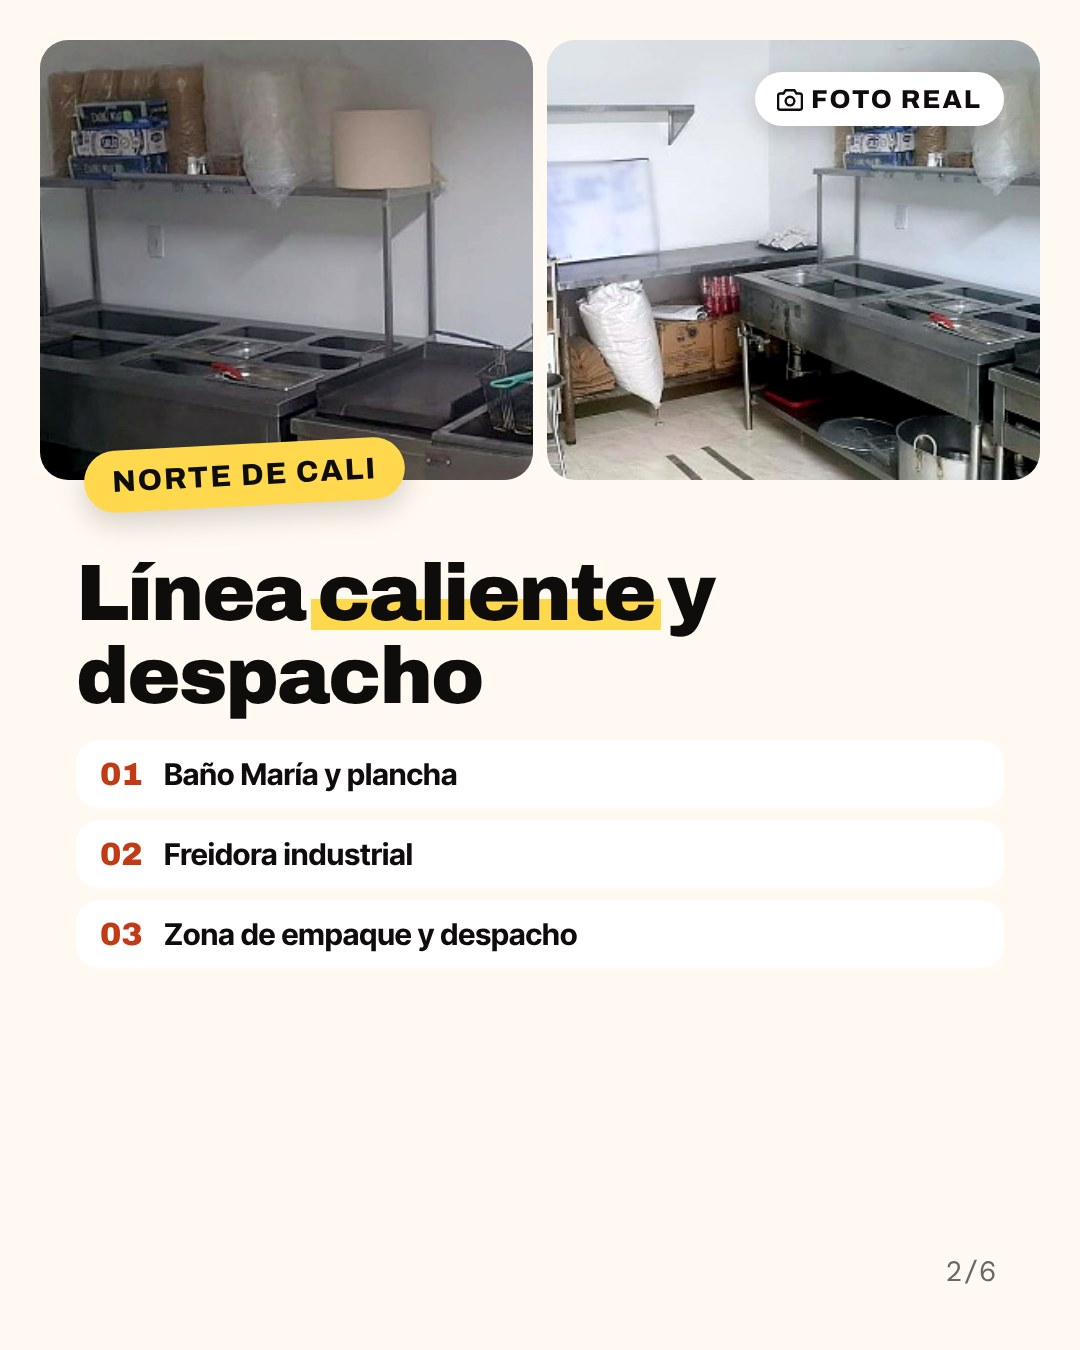
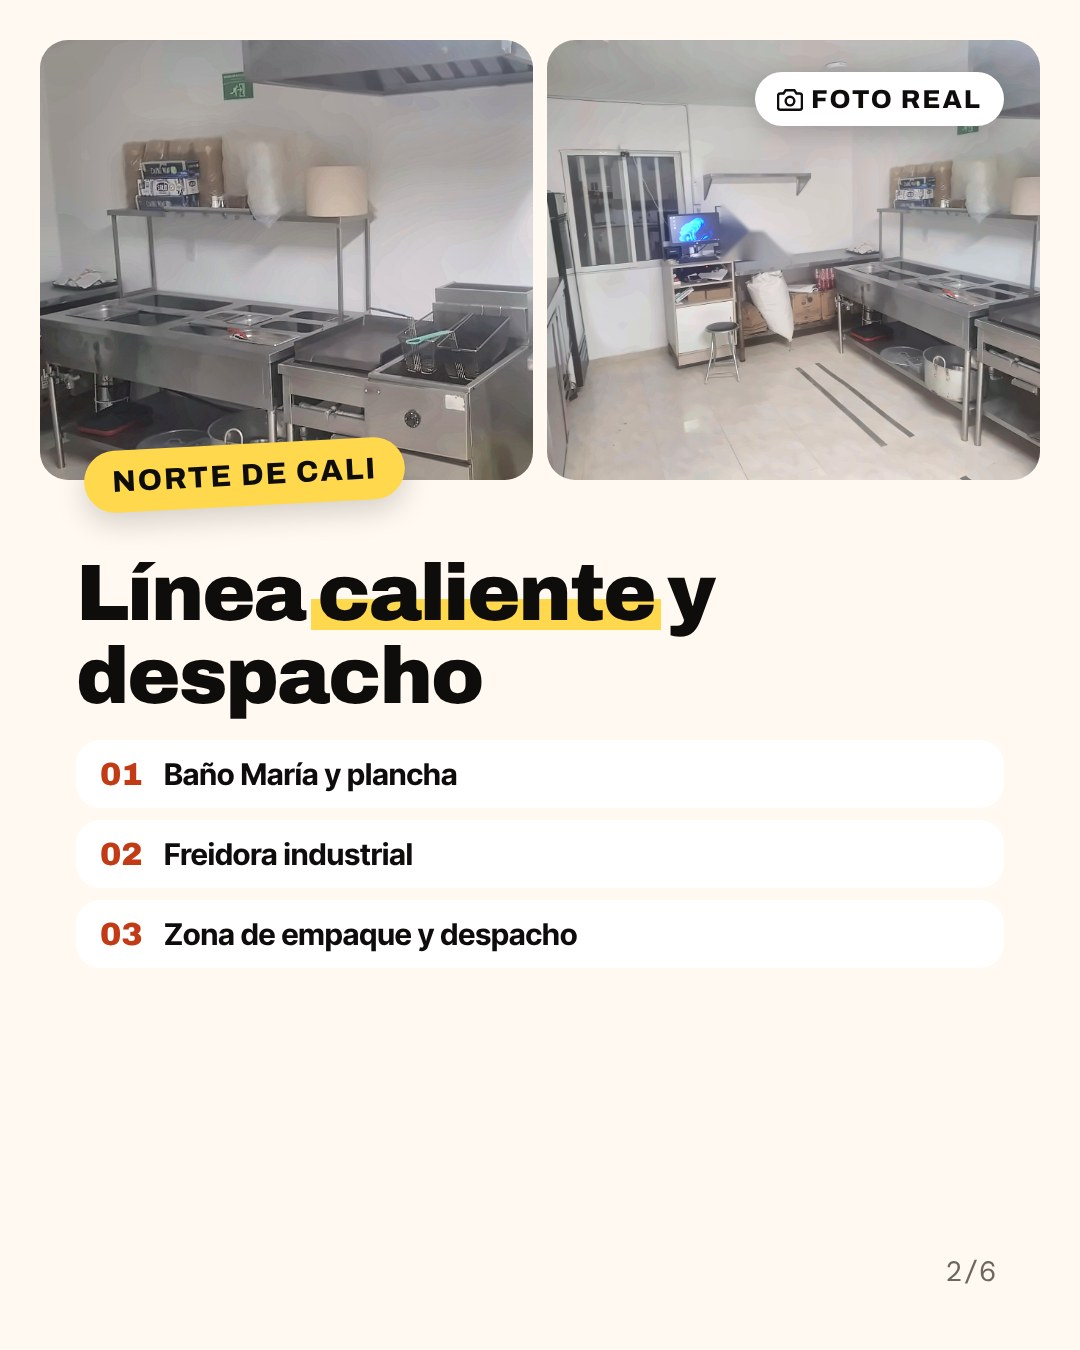
Fotos reales retocadas (luz, color, nitidez, limpieza) y piezas H31-H33, P01, C06 actualizadas
Claude-Session: https://claude.ai/code/session_01XbyNNKVU25zC2yAuVpHdEA

Changed region(s): [[0.0306, 0.0311, 0.9778, 0.3733]]

diff --git a/GUIA.md b/GUIA.md
@@ -35,7 +35,7 @@ Regla de oro: si la pieza habla de postres, se ven postres. Si habla de hamburgu
 
 Busca la imagen en este orden:
 
-1. **Fotos reales** de las cocinas en `marcas/<marca>/assets/reales/` (aprobadas por Carlos el 5 nov). Son la prueba más fuerte: úsalas al menos en 1 de cada 3 piezas y márcalas con `foto_real: true`. Las amplias (`modulo_frente_amplio`, `modulo_frente`, `modulo_panoramica`) sirven para la foto principal con `alto` entre 620 y 900. Las de detalle (`linea_caliente`, `neveras_industriales`, `despacho_empaques`, `cuarto_frio_neveras`, `modulo_vacio_nevera`) son pequeñas: van solo en `galeria`, nunca solas a pantalla completa. Describe solo lo que se ve en la foto; no inventes equipos.
+1. **Fotos reales** de las cocinas en `marcas/<marca>/assets/reales/` (retocadas el 5 nov a partir de las fotos de Carlos). Son la prueba más fuerte: úsalas al menos en 1 de cada 3 piezas y márcalas con `foto_real: true`. Lista y uso en `fotos_reales` de marca.json: módulo vacío (`modulo_cocina_frente`, `modulo_cocina_puerta`, `modulo_cocina_vertical`, `modulo_entrada_vertical`, `modulo_vacio_equipado`), en operación (`linea_caliente_campana`, `linea_caliente_despacho`, `cuarto_frio`, `zona_lavado`). Las verticales sirven de foto principal en historias; las horizontales, en posts, carruseles y galerías. Describe solo lo que se ve en la foto; no inventes equipos. Si Carlos envía fotos nuevas, retócalas igual: luz, balance de blancos, nitidez y limpieza de desorden (botellas, garrafas, notas); nunca agregues ni quites equipos ni cambies el espacio.
    También sirve el material propio del Banco de material en Notion.
 2. **Personajes de la marca** (`personajes` en marca.json, modo o lámina `personaje`): para explicar, preguntar u objetar.
 3. **Galerías de stock libres de regalías:** `orshot_search_stock_media` con `orientation: "vertical"` y 1 a 3 palabras en inglés (`dessert`, `burger`, `home kitchen cooking`, `food delivery`). Mira las miniaturas y elige la foto que muestre el tema con más claridad, luz cálida y espacio libre para el texto. Luego `orshot_use_stock_media` con su `ref` te da una URL permanente. Es gratis, de uso comercial y no exige atribución. Para video de stock: `vidiq_generate_broll` (1 crédito; la atribución al autor va en el caption). Antes de buscar, revisa si ya hay fotos del tema en `marcas/<marca>/assets/stock/`.
